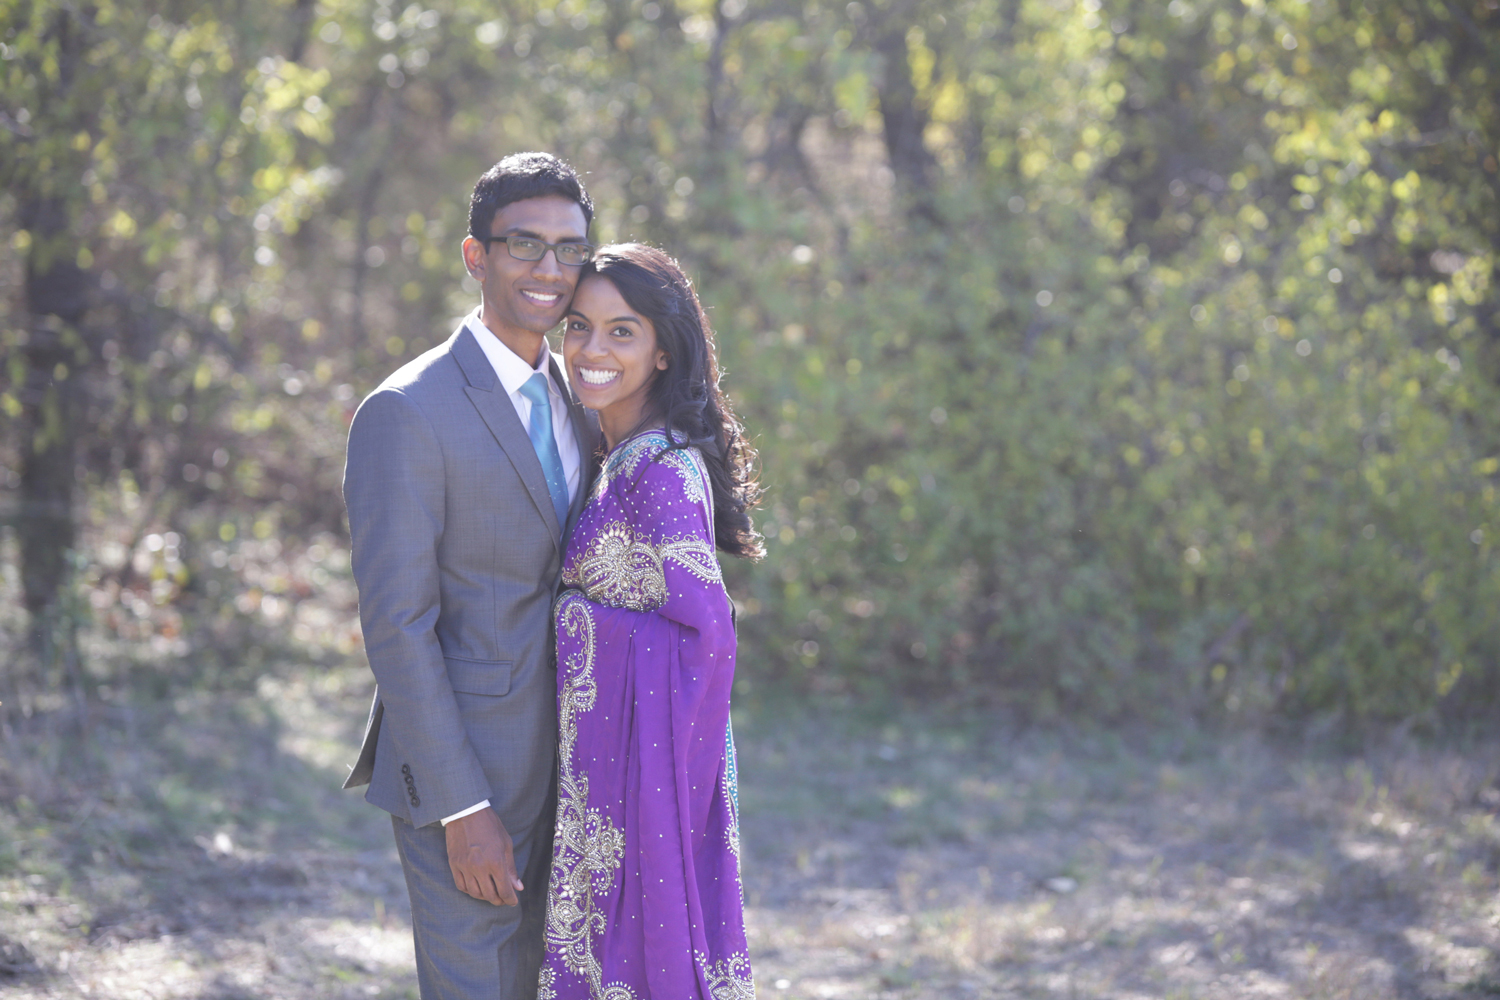
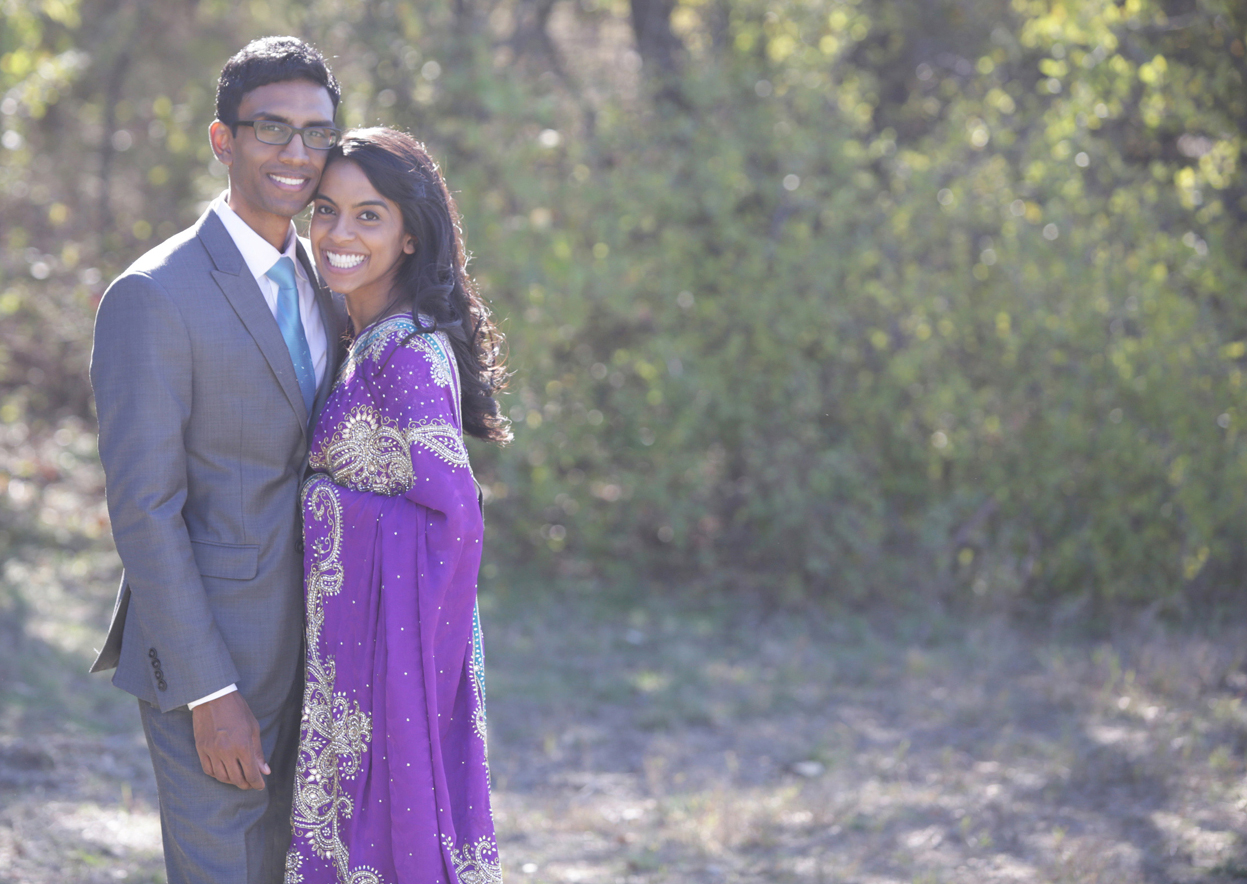
finish jumbotron edits

diff --git a/app/assets/stylesheets/style.scss b/app/assets/stylesheets/style.scss
@@ -401,23 +401,26 @@ object:focus {
   text-shadow: $shadow;
 
   &#home {
-    // === DON'T FORGET TO ADJUST THE BACKGROUND POSITION IN THE MEDIA QUERIES ===
-    background-image: image-url('jumbotron/home.jpg'); // home
+    background-image: image-url('jumbotron/home.jpg');
+    background-position-y: top;
+
+    .inner {
+      padding: 200px 20px;
+    }
   }
 
   &#story {
     background-image: image-url('jumbotron/story.jpg');
-    background-position-y: top; // this is for leaning_back.jpg
+    background-position: left top;
   }
 
   &#photos {
     background-image: image-url('jumbotron/photos.jpg');
-    // background-position-y: top; // this is for open_field.jpg
   }
 
   &#who {
     background-image: image-url('jumbotron/who.jpg');
-    background-position-y: -300px; // this is for sam_back.jpg
+    background-position-y: top;
   }
 
   &#where {
@@ -426,11 +429,12 @@ object:focus {
 
   &#registry {
     background-image: image-url('jumbotron/registry.jpg');
-    background-position-y: -100px;
+    background-position: left top;
   }
 
   &#rsvp {
     background-image: image-url('jumbotron/rsvp.jpg');
+    background-position: left top;
   }
 
   &:before {
@@ -489,21 +493,7 @@ object:focus {
   }
 }
 
-// @media all and (min-width: 1200px) {
-//   .jumbotron {
-//     &#photos {
-//       background-position-y: -100px; // this is for sam_back.jpg
-//     }
-//   }
-// }
-
-// @media all and (min-width: 800px) {
-//   .jumbotron {
-//     &#who {
-//       background-position-y: -300px; // this is for sam_back.jpg
-//     }
-//   }
-// }
+/* JUMBOTRON TEXT */
 
 @media all and (max-width: 500px) {
   .jumbotron {
